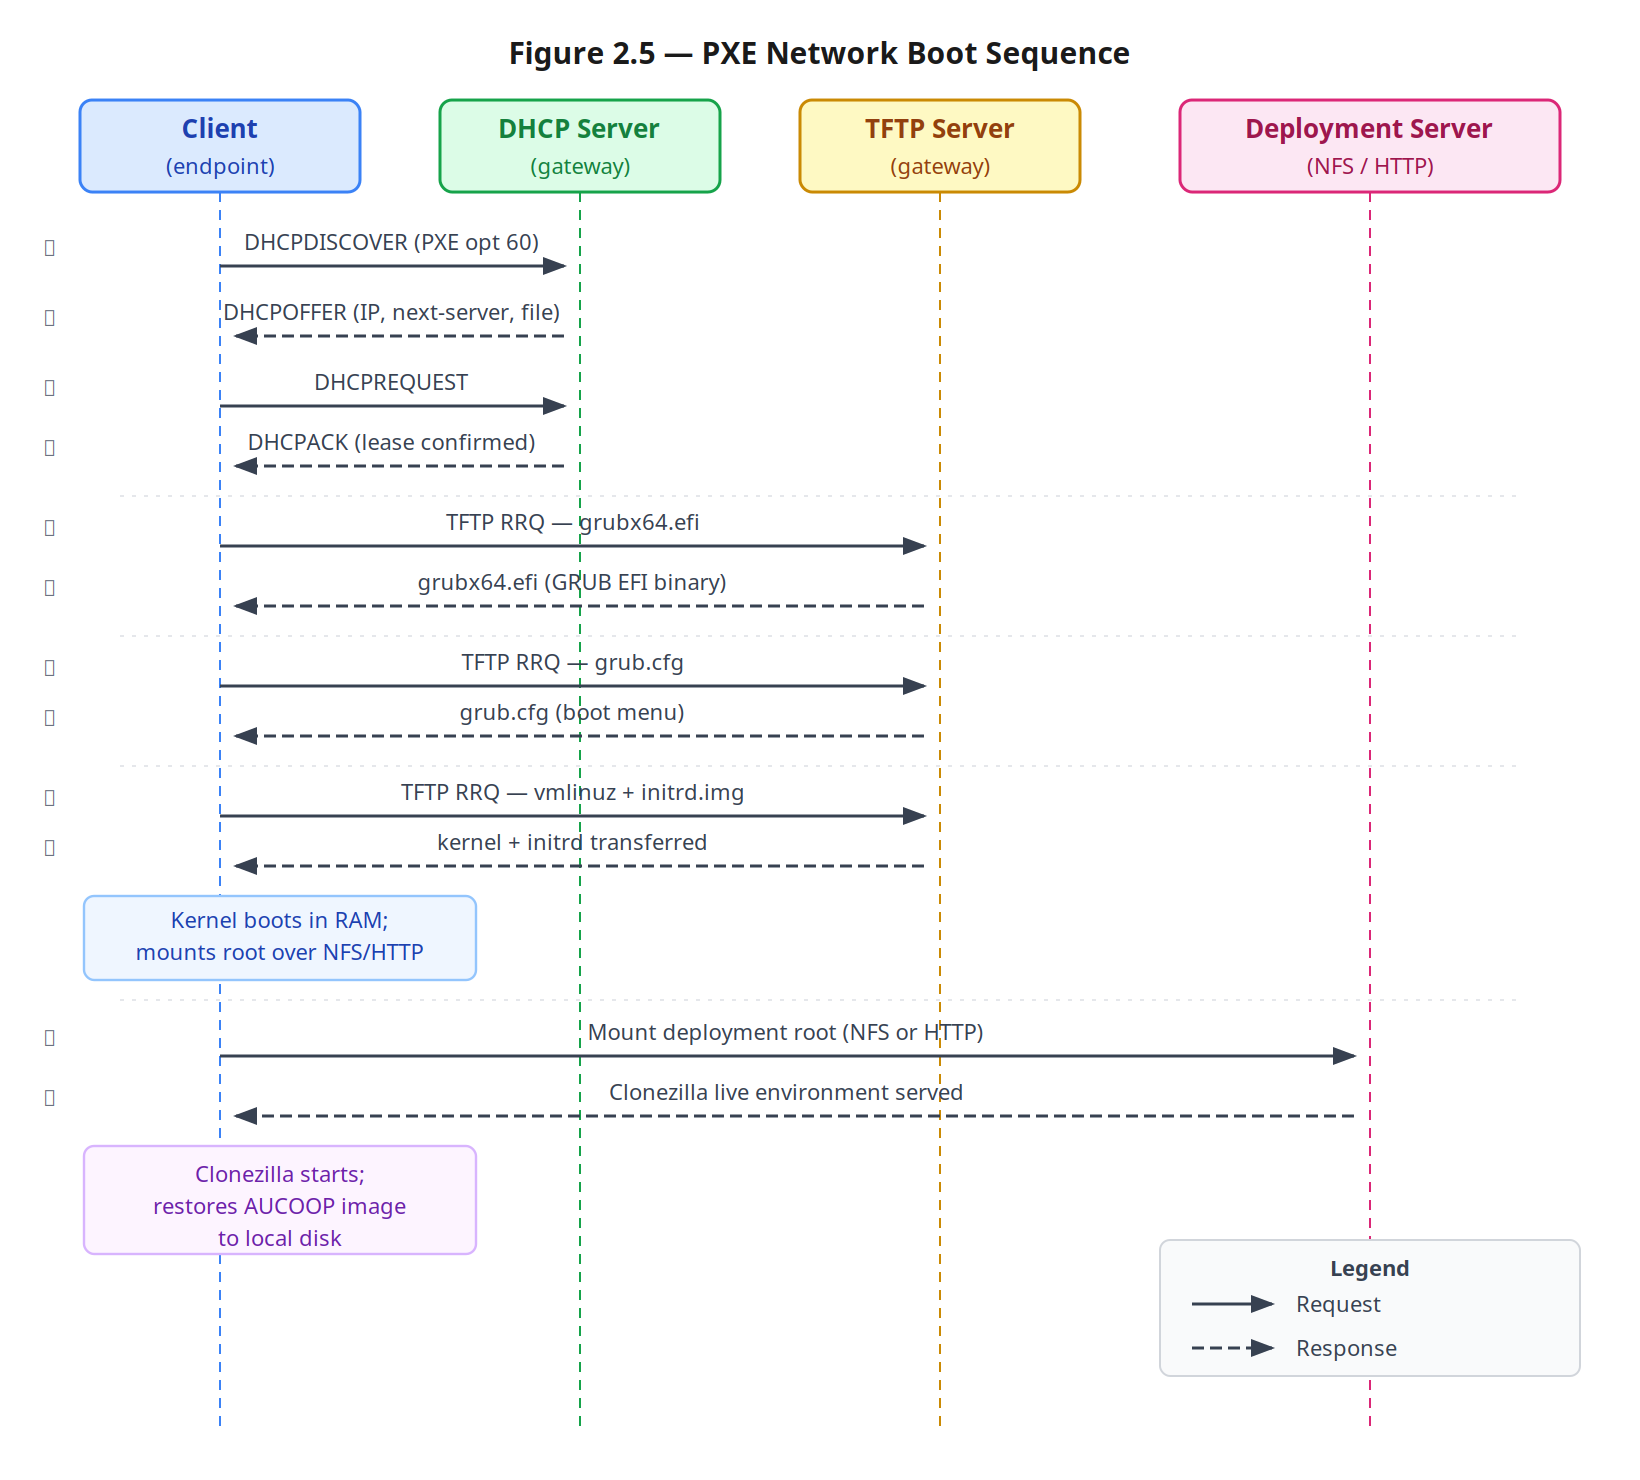
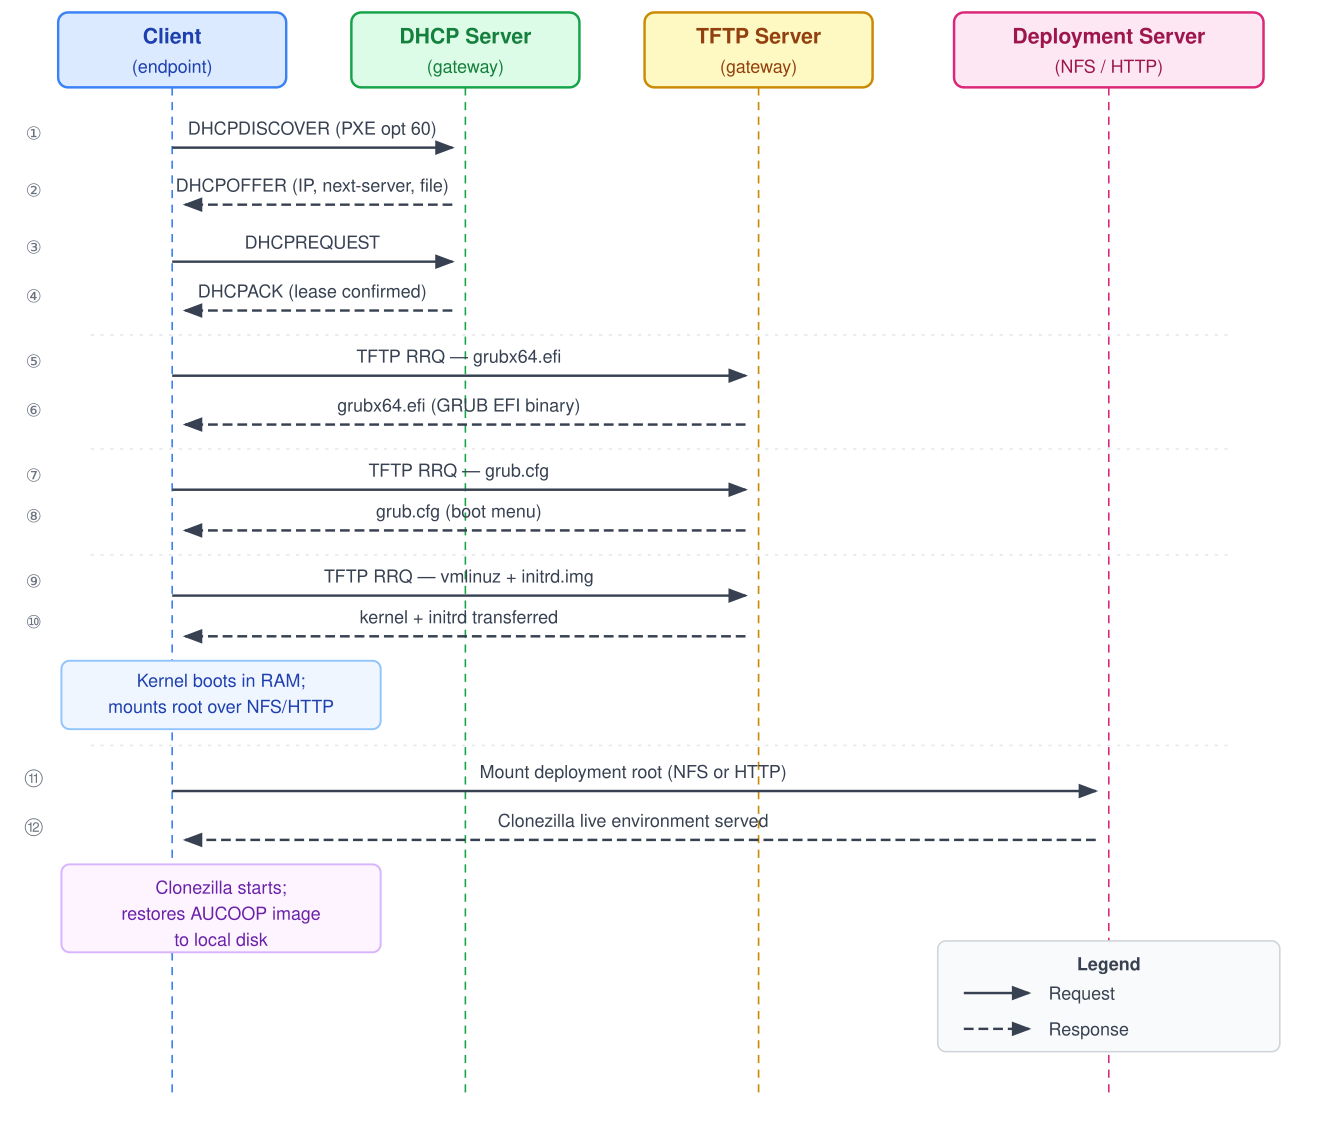
WIP: save local modifications before bisect

diff --git a/.opencode/rules.md b/.opencode/rules.md
@@ -22,3 +22,10 @@ Be sure to read through the full /content folder to understand the context of ea
 2. Create brief summary for each commit you make describing the chantes done. When a commit is done run the script to generate the lates and PDF in /build
 
 3. Create a description of the changes done when creating a pull request.
+
+## Images and tables
+when a new image or table is created be sure to create the reference for the index of figures and tables.
+
+where it adds value to the explanation you may add place holder of images/tables. You may ask the user if the image on a specific place is a good fit for confirmation.
+
+For chapter 3 methodology feel free to find images that relate to the explenation in project /home/mj/Community-Network-Handbook that is the output of the thesis. 